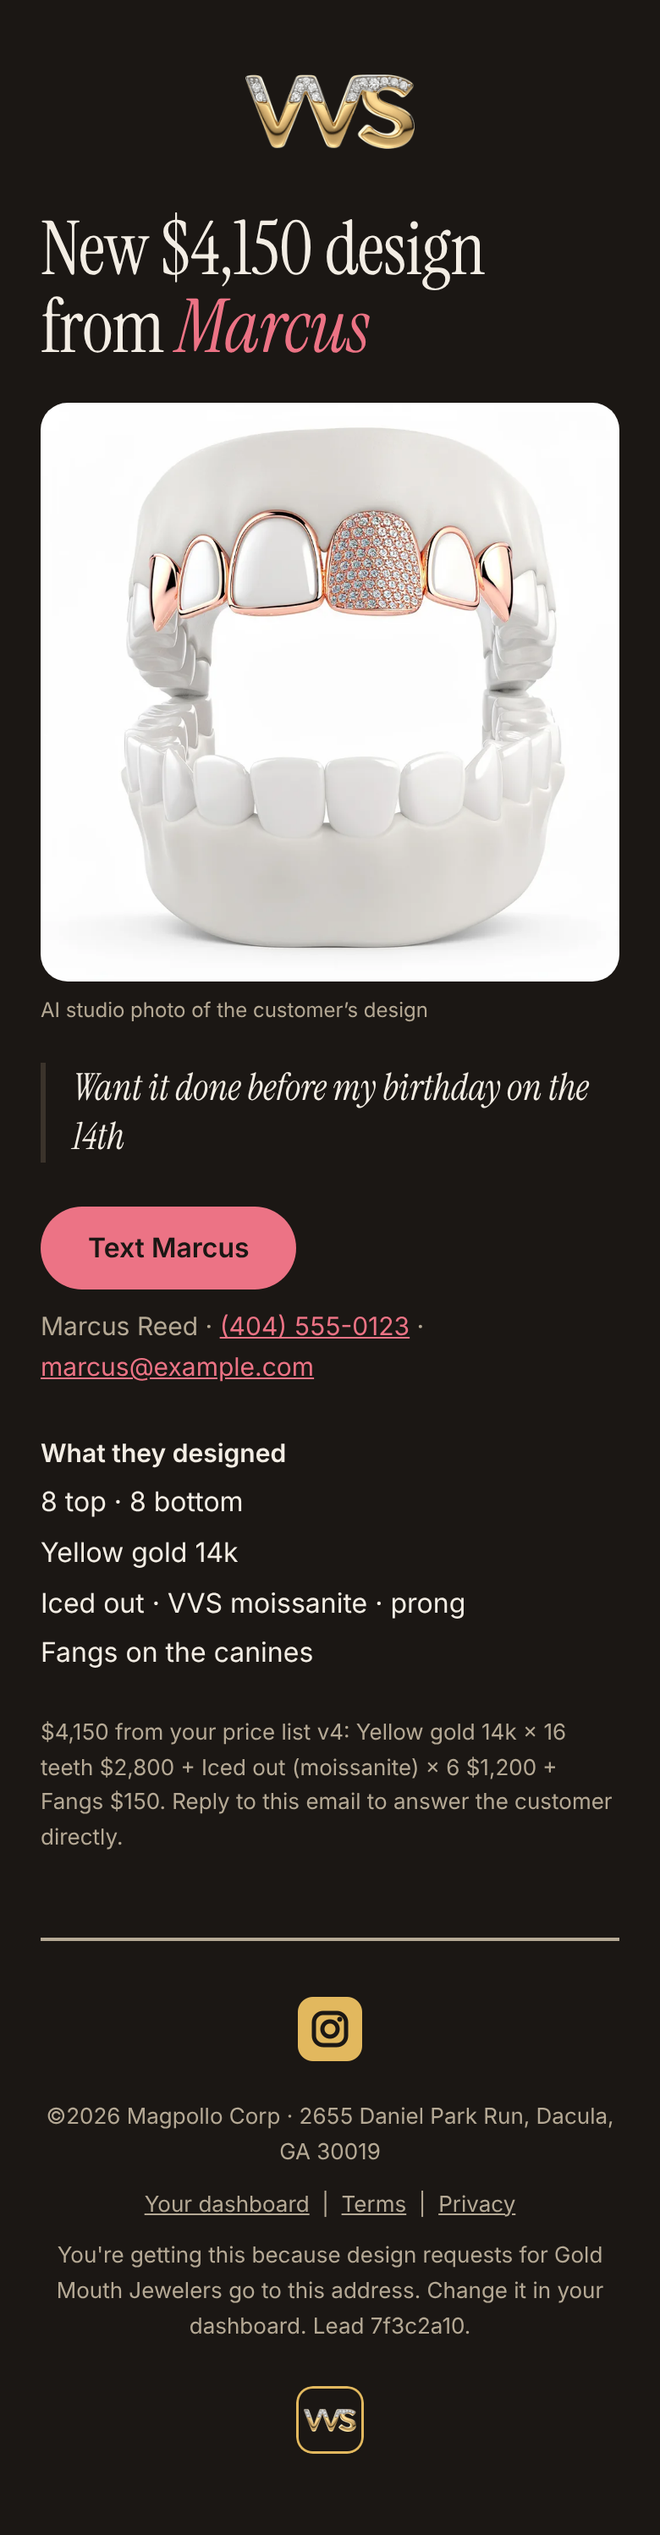
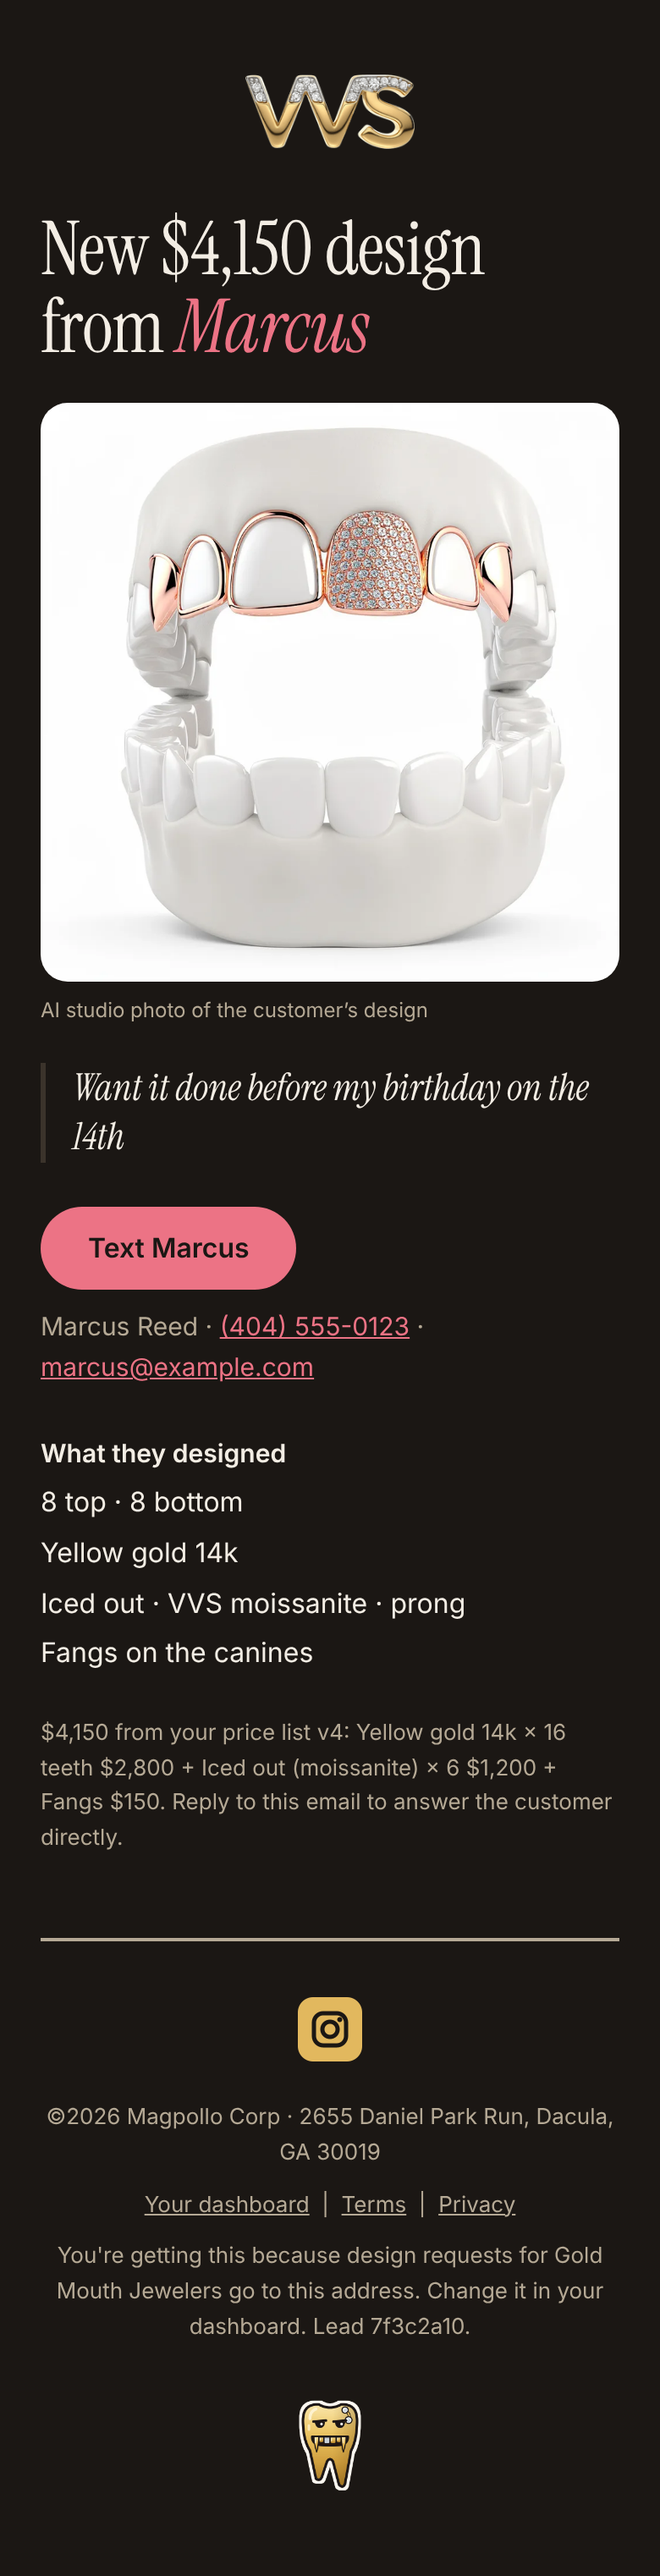
MAG-84: Karat in the emails
Wink welcomes new shops (replacing the mouth illustration), Hype
celebrates on the deposit-paid email, and Cool closes every VVS footer
(replacing the app-icon mark). The old art and its generator are removed;
email-art.ts now only makes the logo mark and social tiles.

Claude-Session: https://claude.ai/code/session_01CsKqmQb1fcvU3uVFSjXsG3

diff --git a/scripts/email-art.ts b/scripts/email-art.ts
@@ -1,116 +1,15 @@
-// Generates the email artwork into public/assets/email/ (SVG source + PNG for
-// mail clients, which don't show SVG). Re-run after changing the drawing:
+// Generates the small email artwork into public/assets/email/: the logo mark
+// and the footer's social tiles. Re-run after changing them:
 //   npx tsx scripts/email-art.ts
-// House style: flat shapes, warm gold gradients, ink outlines, sparkles, and a
-// cream "sticker" edge so the art lifts off a dark background (dark mode).
+// Illustrations are Karat, the mascot: scripts/mascot-model.ts writes those to
+// public/assets/mascot/.
 
-import { mkdirSync, writeFileSync } from 'node:fs';
+import { mkdirSync } from 'node:fs';
 import sharp from 'sharp';
 
 const OUT = 'public/assets/email';
 const INK = '#1b1714';
 const CREAM = '#fbf7f0';
-const GOLD_STOPS = `<stop offset="0" stop-color="#f8de98"/><stop offset=".55" stop-color="#d9ad4b"/><stop offset="1" stop-color="#a87b23"/>`;
-
-type Point = [number, number];
-const bezier = (p: Point[], t: number): Point => {
-  const u = 1 - t;
-  const x = u * u * u * p[0][0] + 3 * u * u * t * p[1][0] + 3 * u * t * t * p[2][0] + t * t * t * p[3][0];
-  const y = u * u * u * p[0][1] + 3 * u * u * t * p[1][1] + 3 * u * t * t * p[2][1] + t * t * t * p[3][1];
-  return [x, y];
-};
-const curve = (p: Point[]) => `M${p[0]} C${p[1]} ${p[2]} ${p[3]}`;
-const n = (value: number) => Math.round(value * 10) / 10;
-
-const sparkle = (cx: number, cy: number, r: number, fill: string, stroke = INK, width = 5) =>
-  `<path d="M${cx} ${cy - r}Q${cx} ${cy} ${cx + r} ${cy}Q${cx} ${cy} ${cx} ${cy + r}Q${cx} ${cy} ${cx - r} ${cy}Q${cx} ${cy} ${cx} ${cy - r}Z" fill="${fill}" stroke="${stroke}" stroke-width="${width}" stroke-linejoin="round"/>`;
-
-/** A tooth hanging from (x, top) when `down`, or standing on (x, bottom) otherwise. */
-function tooth(x: number, anchor: number, width: number, height: number, down: boolean, iced: boolean) {
-  const r = Math.min(16, width / 2.4);
-  const half = width / 2;
-  const [y0, y1] = down ? [anchor - 8, anchor + height] : [anchor + 8, anchor - height];
-  const dir = down ? 1 : -1;
-  const path = `M${n(x - half)} ${n(y0)}L${n(x + half)} ${n(y0)}L${n(x + half)} ${n(y1 - dir * r)}Q${n(x + half)} ${n(y1)} ${n(x + half - r)} ${n(y1)}L${n(x - half + r)} ${n(y1)}Q${n(x - half)} ${n(y1)} ${n(x - half)} ${n(y1 - dir * r)}Z`;
-  const fill = iced ? '#eef1f4' : 'url(#gold)';
-  let out = `<path d="${path}" fill="${fill}" stroke="${INK}" stroke-width="5" stroke-linejoin="round"/>`;
-  if (iced) {
-    // Pavé: a small grid of stones.
-    const top = Math.min(y0, y1) + 14;
-    const rows = Math.max(2, Math.floor((Math.abs(y1 - y0) - 22) / 17));
-    for (let row = 0; row < rows; row += 1) {
-      for (const dx of [-0.24, 0.24]) {
-        out += `<circle cx="${n(x + dx * width)}" cy="${n(top + row * 17)}" r="6" fill="#ffffff" stroke="#9aa4ae" stroke-width="2"/>`;
-      }
-    }
-  } else {
-    // A highlight so the gold reads as polished metal.
-    const hy = down ? y0 + 14 : y1 + 10;
-    out += `<rect x="${n(x - half + 7)}" y="${n(hy)}" width="${n(Math.max(6, width * 0.16))}" height="${n(Math.abs(y1 - y0) * 0.45)}" rx="4" fill="#fff6d8" opacity=".75"/>`;
-  }
-  return out;
-}
-
-/** y on a left-to-right curve at a given x (the curve's x only grows). */
-const yAt = (p: Point[], x: number) => {
-  let lo = 0;
-  let hi = 1;
-  for (let i = 0; i < 40; i += 1) {
-    const mid = (lo + hi) / 2;
-    if (bezier(p, mid)[0] < x) lo = mid;
-    else hi = mid;
-  }
-  return bezier(p, (lo + hi) / 2)[1];
-};
-
-function welcomeIllustration() {
-  // Cropped tight to the drawing (sticker edges included).
-  const W = 960;
-  const H = 520;
-  const upperInner: Point[] = [[364, 300], [452, 222], [748, 222], [836, 300]];
-  const lowerInner: Point[] = [[364, 300], [440, 452], [760, 452], [836, 300]];
-  const mouth = `${curve(upperInner)}${curve([...lowerInner].reverse() as Point[]).replace('M', 'L')}Z`;
-  let teeth = '';
-  // Top row: eight teeth, evenly spaced, longest in the middle; two are iced.
-  const upperLeft = 388;
-  const upperSlot = (812 - upperLeft) / 8;
-  for (let i = 0; i < 8; i += 1) {
-    const x = upperLeft + upperSlot * (i + 0.5);
-    const centre = 1 - Math.abs(x - 600) / 230;
-    teeth += tooth(x, yAt(upperInner, x), upperSlot - 7, 46 + 40 * Math.max(0, centre), true, i === 2 || i === 5);
-  }
-  // Bottom row: six shorter teeth.
-  const lowerLeft = 444;
-  const lowerSlot = (756 - lowerLeft) / 6;
-  for (let i = 0; i < 6; i += 1) {
-    const x = lowerLeft + lowerSlot * (i + 0.5);
-    const centre = 1 - Math.abs(x - 600) / 200;
-    teeth += tooth(x, yAt(lowerInner, x), lowerSlot - 7, 34 + 22 * Math.max(0, centre), false, false);
-  }
-  // A speech bubble: the customer messages that the builder brings in.
-  const scribble = [0, 1, 2].map((i) => `M${862 + i * 52} 138c14-10 30-34 18-42c-12-8-24 20-12 40c8 12 24 8 34 0`).join('');
-  return `<svg xmlns="http://www.w3.org/2000/svg" viewBox="140 24 ${W} ${H}" width="${W}" height="${H}">
-<defs><linearGradient id="gold" x1="0" y1="0" x2="0" y2="1">${GOLD_STOPS}</linearGradient><clipPath id="mouth"><path d="${mouth}"/></clipPath>
-<filter id="sticker" x="-10%" y="-10%" width="120%" height="120%"><feMorphology in="SourceAlpha" operator="dilate" radius="14" result="grown"/><feFlood flood-color="${CREAM}"/><feComposite in2="grown" operator="in" result="edge"/><feMerge><feMergeNode in="edge"/><feMergeNode in="SourceGraphic"/></feMerge></filter></defs>
-<g filter="url(#sticker)">
-<path d="M300 296C396 160 804 160 900 296C836 520 364 520 300 296Z" fill="#9c4a3f" stroke="${INK}" stroke-width="7" stroke-linejoin="round"/>
-<path d="${mouth}" fill="#2a1511"/>
-<g clip-path="url(#mouth)">${teeth}</g>
-<path d="${mouth}" fill="none" stroke="${INK}" stroke-width="7" stroke-linejoin="round"/>
-<path d="M336 292C316 280 302 282 288 296M864 292C884 280 898 282 912 296" fill="none" stroke="${INK}" stroke-width="7" stroke-linecap="round"/>
-<path d="M468 206C516 192 558 190 598 192" fill="none" stroke="#c9776a" stroke-width="8" stroke-linecap="round" opacity=".85"/>
-</g>
-<g filter="url(#sticker)">
-<path d="M876 52H1036Q1076 52 1076 92V132Q1076 172 1036 172H930L896 210L900 172H876Q836 172 836 132V92Q836 52 876 52Z" fill="#f0b65a" stroke="${INK}" stroke-width="7" stroke-linejoin="round"/>
-<path d="${scribble}" fill="none" stroke="${INK}" stroke-width="6" stroke-linecap="round" stroke-linejoin="round"/>
-</g>
-<g filter="url(#sticker)">${sparkle(232, 170, 44, 'url(#gold)')}</g>
-<g filter="url(#sticker)">${sparkle(1010, 410, 24, '#ffffff')}</g>
-<g filter="url(#sticker)">${sparkle(190, 430, 20, '#ffffff')}</g>
-${sparkle(620, 96, 14, INK, INK, 2)}
-<circle cx="980" cy="300" r="7" fill="${INK}"/><circle cx="276" cy="330" r="6" fill="${INK}"/>
-</svg>`;
-}
 
 /** A 2x footer tile (shown at 40px): the Instagram glyph on a rounded square. */
 const instagramTile = (tile: string, glyph: string, edge?: string) => `<svg xmlns="http://www.w3.org/2000/svg" viewBox="0 0 80 80" width="80" height="80">
@@ -120,18 +19,9 @@ const instagramTile = (tile: string, glyph: string, edge?: string) => `<svg xmln
 
 async function main() {
   mkdirSync(OUT, { recursive: true });
-  const welcome = welcomeIllustration();
-  writeFileSync(`${OUT}/welcome.svg`, welcome);
-  await sharp(Buffer.from(welcome)).resize(960).png({ compressionLevel: 9, palette: true, quality: 90 }).toFile(`${OUT}/welcome.png`);
   // Gold tile for VVS Lab mail; ink tile with a light edge for shop mail (any accent).
   await sharp(Buffer.from(instagramTile('#e2b85e', INK))).png().toFile(`${OUT}/instagram-tile.png`);
   await sharp(Buffer.from(instagramTile(INK, CREAM, '#e7ddcd'))).png().toFile(`${OUT}/instagram-tile-ink.png`);
-  // The app-icon mark that closes the footer: the gold mark on an ink square, 2x of 40px.
-  const mark = await sharp('public/assets/vvs/logo-mark.png').resize({ width: 62 }).png().toBuffer();
-  await sharp(Buffer.from(`<svg xmlns="http://www.w3.org/2000/svg" width="80" height="80"><rect x="1.5" y="1.5" width="77" height="77" rx="18" fill="${INK}" stroke="#e2b85e" stroke-width="3"/></svg>`))
-    .composite([{ input: mark, gravity: 'center' }])
-    .png({ compressionLevel: 9 })
-    .toFile(`${OUT}/vvs-icon.png`);
   // The gold mark at 2x its email size (48px tall), so it's light to load.
   await sharp('public/assets/vvs/logo-mark.png').resize({ height: 96 }).png({ compressionLevel: 9, palette: true, quality: 90 }).toFile(`${OUT}/vvs-mark.png`);
   console.log('email art written to', OUT);

diff --git a/server/email/components.ts b/server/email/components.ts
@@ -70,7 +70,7 @@ function Footer({ brand, reason, unsubscribe }: WithBrand & FooterProps) {
       ),
     h(Text, { className: 'em-muted', style: { ...small, margin: '0 0 24px' } }, reason),
     'src' in mark
-      ? h(Img, { src: mark.src, alt: mark.alt, width: mark.height, height: mark.height, style: { display: 'block', margin: '0 auto', borderRadius: '10px' } })
+      ? h(Img, { src: mark.src, alt: mark.alt, width: mark.height, height: mark.height, style: { display: 'block', margin: '0 auto' } })
       : h(Text, { className: 'em-muted', style: { ...small, margin: 0 } }, 'Powered by ', h(Link, { href: mark.poweredBy.href, className: 'em-muted', style: linkStyle }, mark.poweredBy.label)),
   );
 }
@@ -158,12 +158,12 @@ export const Photo = ({ brand, src, alt, caption }: WithBrand & { src: string; a
     caption && h(Text, { className: 'em-muted', style: { margin: '8px 0 0', fontFamily: brand.fonts.sans, fontSize: '12px', lineHeight: '1.45', color: brand.light.muted } }, caption),
   );
 
-/** The email's one illustration, centred under the headline. */
-export const Illustration = ({ src, width = 440 }: { src: string; width?: number }) =>
+/** The email's one illustration: centred under a centred headline, or left above a left one. */
+export const Illustration = ({ src, width = 440, align = 'center', alt = '' }: { src: string; width?: number; align?: 'left' | 'center'; alt?: string }) =>
   h(
     Section,
-    { style: { padding: '28px 0 12px', textAlign: 'center' } },
-    h(Img, { src, alt: '', width, style: { display: 'block', width: '100%', maxWidth: `${width}px`, height: 'auto', margin: '0 auto' } }),
+    { style: { padding: align === 'center' ? '28px 0 12px' : '0 0 8px', textAlign: align } },
+    h(Img, { src, alt, width, style: { display: 'block', width: '100%', maxWidth: `${width}px`, height: 'auto', margin: align === 'center' ? '0 auto' : '0' } }),
   );
 
 /** "— The VVS Lab team": the person or team the email is from. */

diff --git a/server/emailTemplates.ts b/server/emailTemplates.ts
@@ -167,6 +167,7 @@ export async function depositPaidEmail({ lead, config, origin, amount }: { lead:
       preheader: balance,
       footer: { reason: `You're getting this because design requests for ${config.brand.name} go to this address. Lead ${lead.id.slice(0, 8)}.` },
     },
+    h(Illustration, { src: `${origin.replace(/\/$/, '')}/assets/mascot/karat-hype.png`, width: 132, align: 'left', alt: 'Karat celebrating' }),
     h(Headline, { brand, text: `*${first}* paid a ${usd(amount)} deposit` }),
     h(Paragraph, { brand, margin: '20px 0 0' }, `It's in your Stripe account and their spot is held. Reach out to book the next step.`),
     h(CTA, { brand, href: reach.href, margin: '24px 0 10px' }, `${reach.action} ${first}`),
@@ -261,7 +262,7 @@ export async function welcomeEmail({ shop, slug, link, origin, trialDays }: { sh
     EmailFrame,
     { brand, title: 'Your builder is ready', preheader: `${shop}'s grillz builder is ready to set up`, footer: { reason: "You're getting this because you signed up for VVS Lab." } },
     h(Headline, { brand, align: 'center', size: 54, text: 'Your builder is *ready*' }),
-    h(Illustration, { src: `${origin.replace(/\/$/, '')}/assets/email/welcome.png` }),
+    h(Illustration, { src: `${origin.replace(/\/$/, '')}/assets/mascot/karat-wink.png`, width: 216, alt: 'Karat, the VVS Lab mascot, winking' }),
     h(Paragraph, { brand, margin: '18px 0 16px' }, 'Hey there,'),
     h(Paragraph, { brand }, `${shop} now has its own 3D grillz builder at `, h('strong', null, `${host(origin)}/b/${slug}`), '. Customers design their set, see your prices and send it straight to you, with a studio photo.'),
     h(Paragraph, { brand }, `Add your logo and prices, then switch it on. It takes about 10 minutes, and your free trial runs ${trialDays} days.`),

diff --git a/server/email/brand.ts b/server/email/brand.ts
@@ -25,7 +25,7 @@ export type Brand = {
   logo: { src: string; alt: string; height: number } | { wordmark: string };
   /** Sign-off line under the body, e.g. "— The VVS Lab team". */
   signOff: string;
-  /** App-icon mark closing the footer, or a "Powered by" line for white-label mail. */
+  /** Mark closing the footer (VVS Lab: Karat), or a "Powered by" line for white-label mail. */
   footerMark: { src: string; alt: string; height: number } | { poweredBy: { label: string; href: string } };
   light: Palette;
   /** Applied by clients that support prefers-color-scheme (Apple Mail, iOS Mail, Outlook apps). */
@@ -58,7 +58,7 @@ export function vvsBrand(origin: string): Brand {
     name: 'VVS Lab',
     logo: { src: at(origin, '/assets/email/vvs-mark.png'), alt: 'VVS Lab', height: 44 },
     signOff: '— The VVS Lab team',
-    footerMark: { src: at(origin, '/assets/email/vvs-icon.png'), alt: 'VVS Lab', height: 40 },
+    footerMark: { src: at(origin, '/assets/mascot/karat-cool.png'), alt: 'Karat, the VVS Lab mascot', height: 64 },
     // Contrast on the page: highlight 4.3:1 (large text), link 5.9:1, button text 4.6:1; dark 6.2:1.
     light: { page: '#fbf7f0', text: '#1b1714', muted: '#6f655a', line: '#e7ddcd', highlight: '#ce4257', link: '#b02f45', button: '#ce4257', buttonText: '#ffffff' },
     dark: { page: '#1b1714', text: '#f3ede4', muted: '#b5a995', line: '#3b332b', highlight: '#ec7385', link: '#ec7385', button: '#ec7385', buttonText: '#1b1714' },

diff --git a/docs/email/vvs-lab.md b/docs/email/vvs-lab.md
@@ -16,13 +16,16 @@ Brand-specific companion to [`PLAYBOOK.md`](PLAYBOOK.md).
 Red is the product's accent (`--accent` in `src/App.css`); gold belongs to the
 mark and the illustrations (the metal), not to type or buttons.
 
-- Logo: the gold diamond "VVS" mark (`/assets/email/vvs-mark.png`, 2×); the
-  footer closes with the app icon (`vvs-icon.png`: the mark on ink, gold edge).
+- Logo: the gold diamond "VVS" mark (`/assets/email/vvs-mark.png`, 2×).
+- Mascot: **Karat** (`docs/brand/mascot/`), a gold fanged tooth with an
+  iced-out grill and an eyebrow piercing. Cool closes every VVS footer; Wink
+  welcomes; Hype celebrates wins (deposit paid); Nudge, Working and Tarnished
+  are for reminders, loading and win-back. PNGs in `/assets/mascot/`.
 - Socials: gold Instagram tile (`instagram-tile.png`); shops get the ink tile.
 - Sign-off: "— The VVS Lab team" (shop mail: "— {shop name}").
 - Type: Instrument Serif headlines (Georgia in Gmail), system sans body.
-- Illustration style: flat shapes, warm gold gradients, 5–7px ink outlines,
-  4-point sparkles, a cream sticker edge, a speech bubble for character. Grillz culture: gold teeth,
+- Illustration style: Karat's: flat shapes, warm gold gradients, 5px ink
+  outlines, 4-point sparkles, a cream sticker edge on dark backgrounds. Grillz culture: gold teeth,
   iced (pavé) stones, smiles. Source: `scripts/email-art.ts`.
 - Voice: a jeweler's friend who knows the trade. Short, warm, confident.
   "Hey there," openings; no hype words.

diff --git a/docs/email/PLAYBOOK.md b/docs/email/PLAYBOOK.md
@@ -8,7 +8,7 @@ The kit that implements it is in `server/email/` (React Email):
 `brand.ts` (one object per brand), `components.ts` (the building blocks), and
 `server/emailTemplates.ts` (the emails). `scripts/email-preview.ts` renders
 everything at phone and desktop width, light and dark. `scripts/email-art.ts`
-draws the illustrations.
+draws the small art; the mascot comes from `scripts/mascot-model.ts`.
 
 The components are written with `createElement` in `.ts` files, not JSX:
 Vercel's Node functions compile and bundle only `.ts`, so a `.tsx` server
